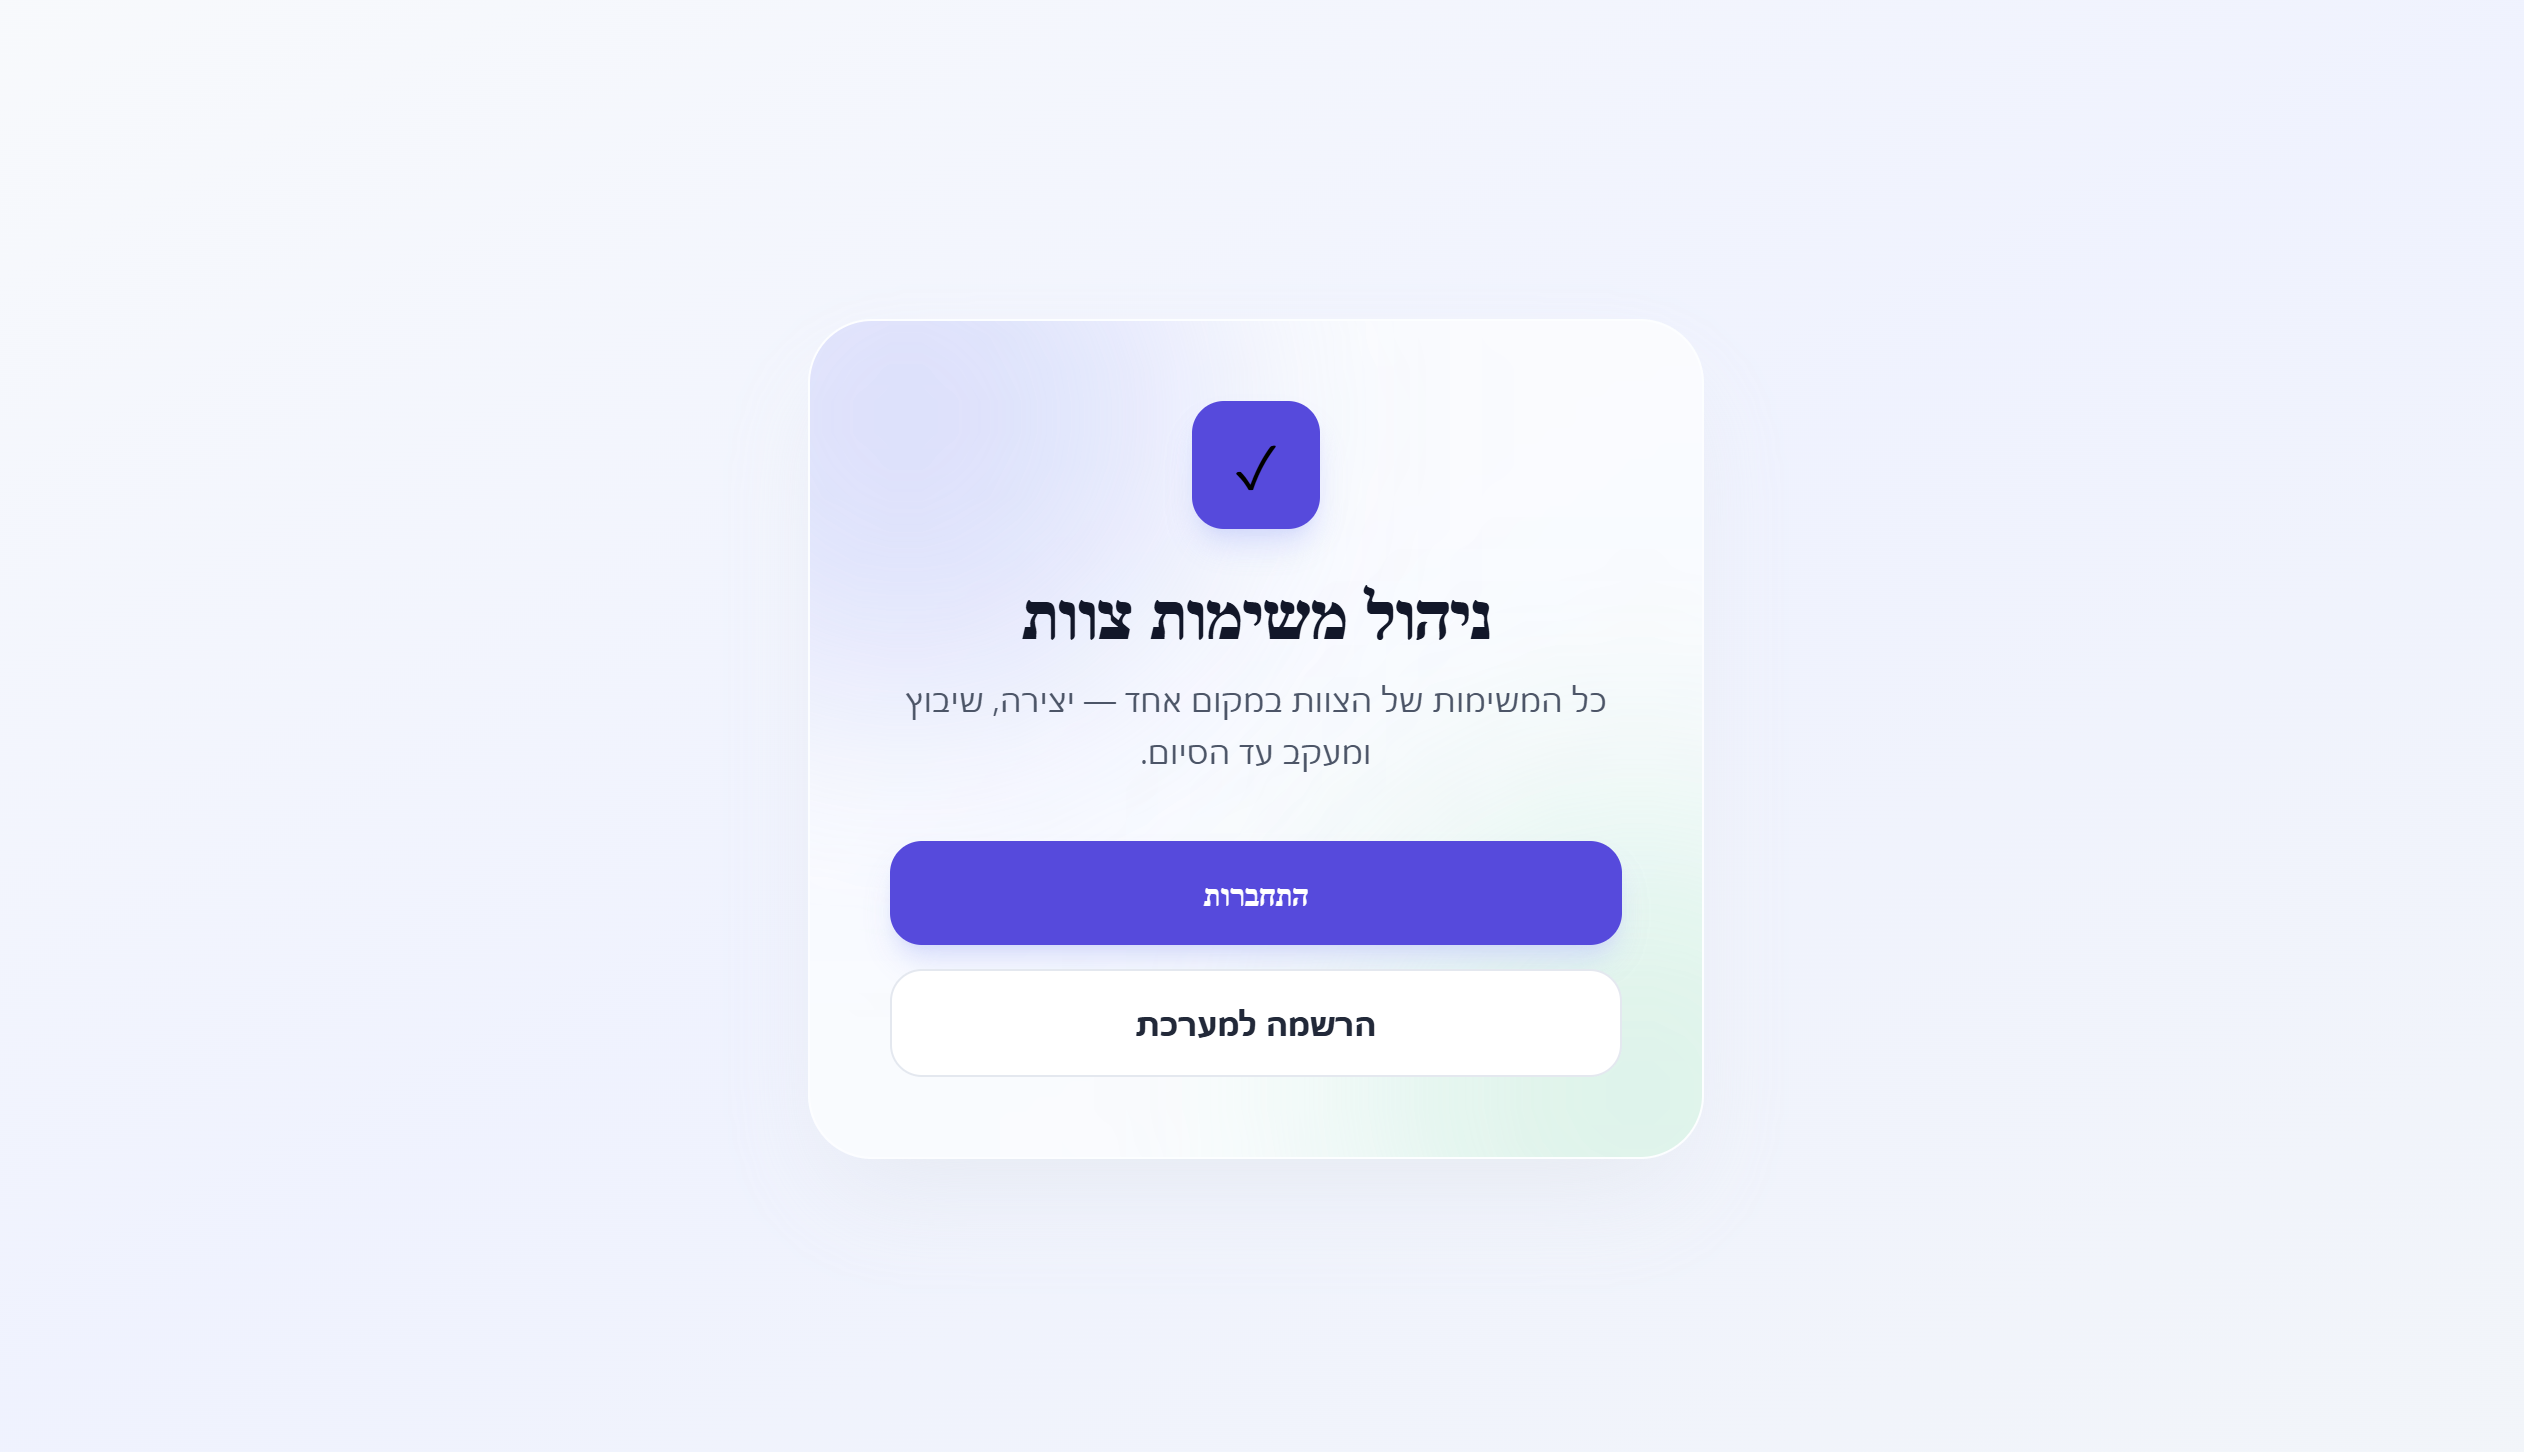
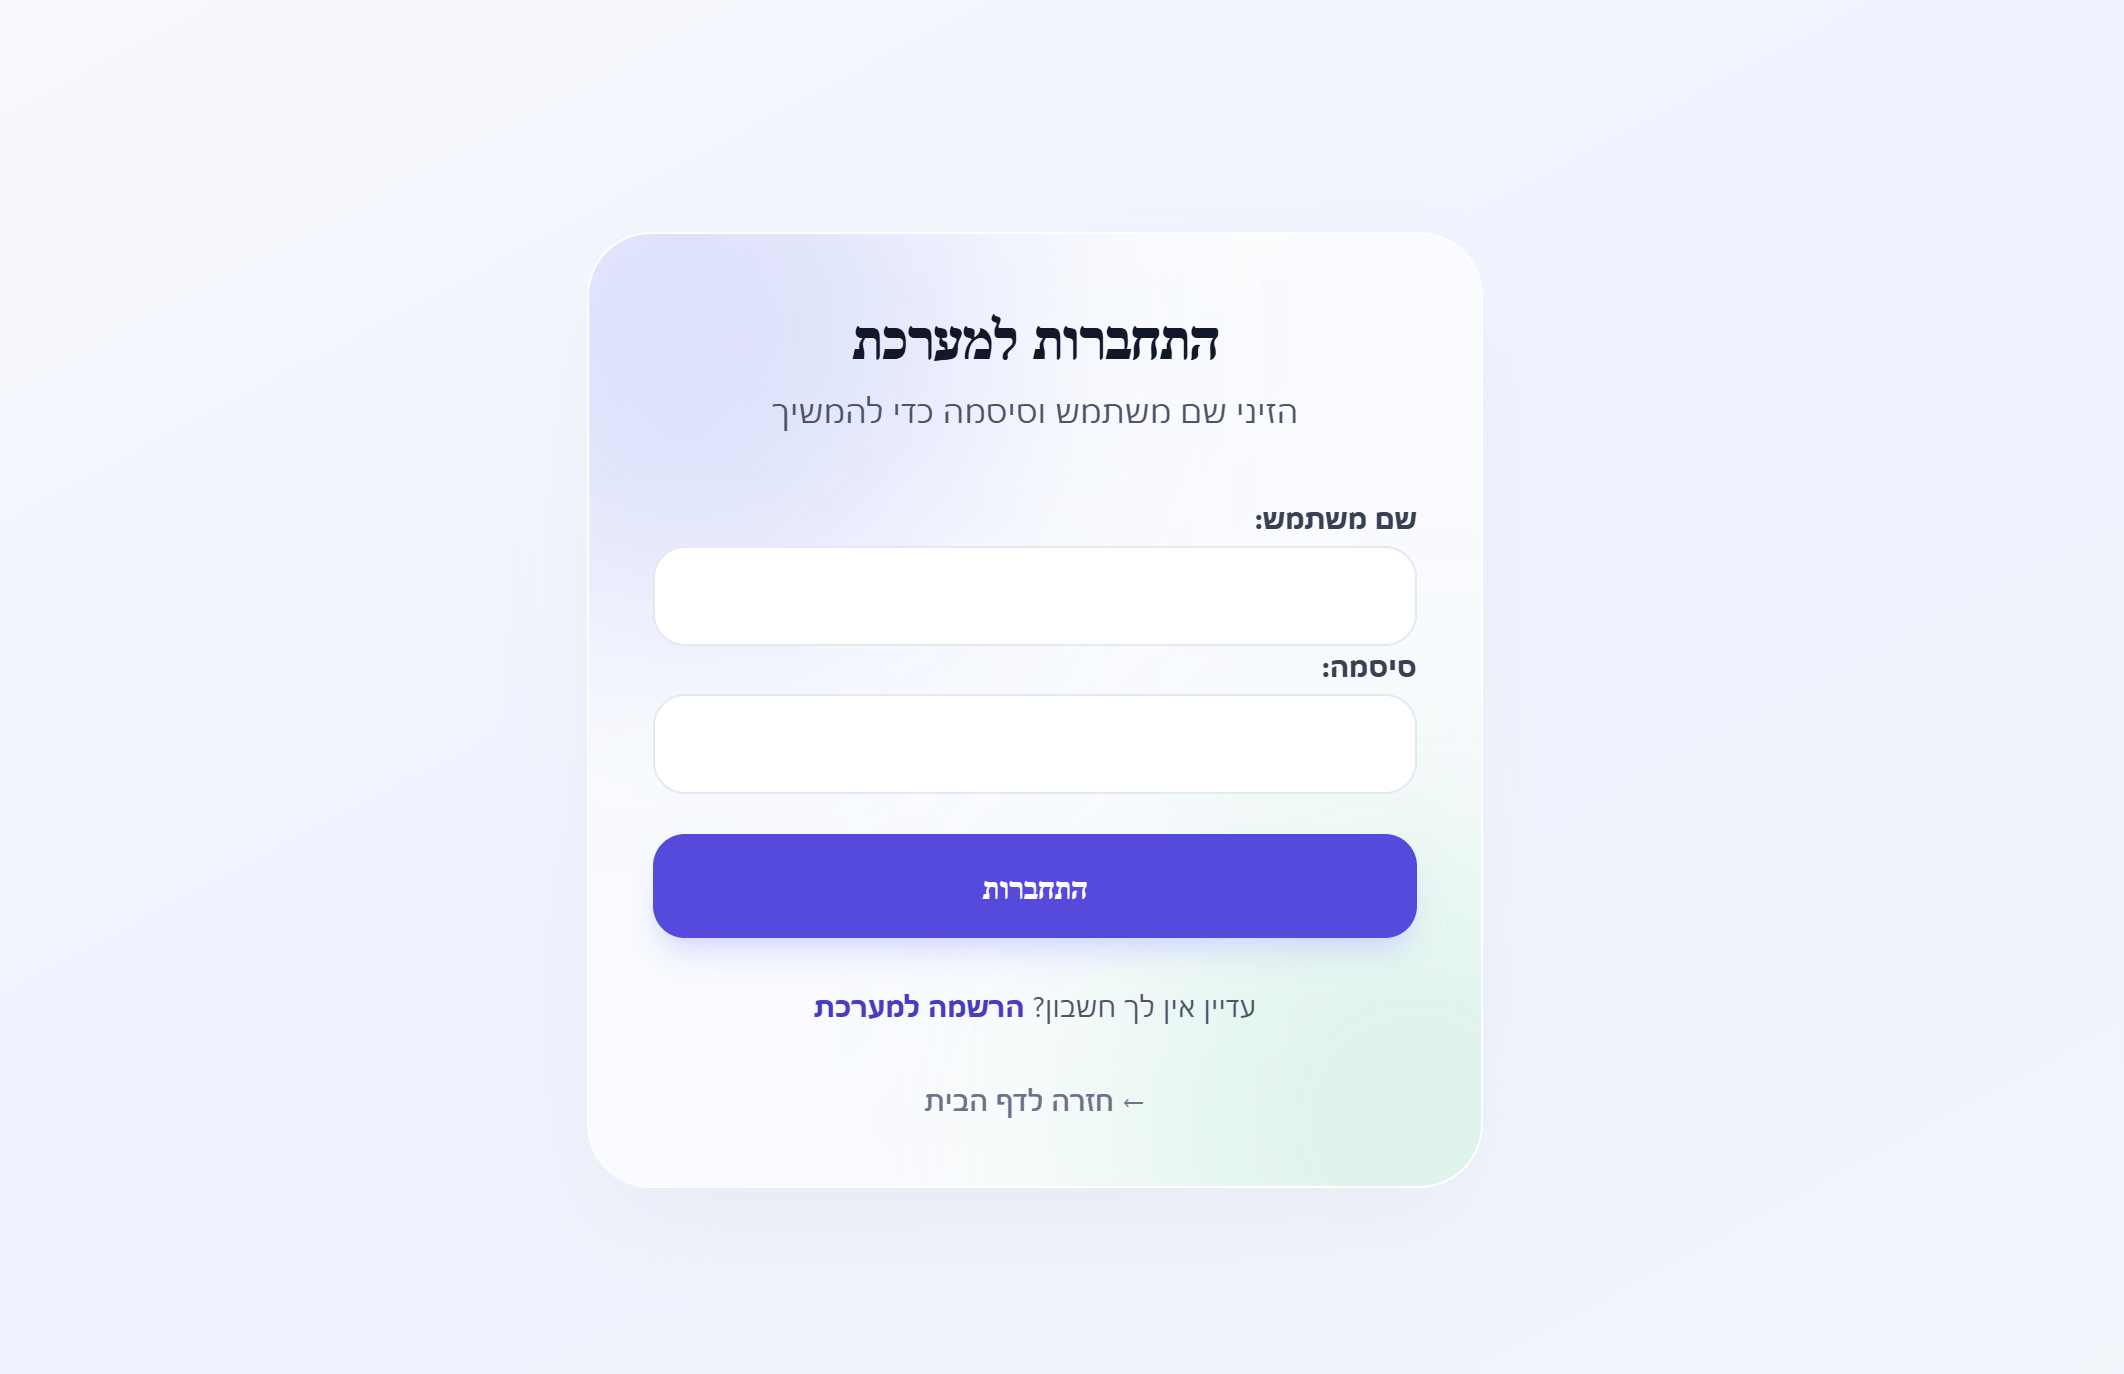
Update README and screenshots

diff --git a/myapp/templates/accounts/register.html b/myapp/templates/accounts/register.html
@@ -7,50 +7,64 @@
     <title>הרשמה</title>
 </head>
 
-<body class="min-h-screen bg-gradient-to-br from-slate-50 via-indigo-50 to-slate-100 flex items-center justify-center px-4">
+<body class="min-h-screen bg-gradient-to-br from-slate-50 via-indigo-50 to-slate-100 flex items-center justify-center px-4 py-8">
 
-<div class="w-full max-w-md">
+<div class="w-full max-w-md md:max-w-2xl">
 
-    <div class="relative overflow-hidden rounded-[2rem] border border-white/60 bg-white/70 backdrop-blur-xl shadow-2xl shadow-slate-200/70 p-8">
+    <div class="relative overflow-hidden rounded-[2rem] border border-white/60 bg-white/70 backdrop-blur-xl shadow-2xl shadow-slate-200/70 p-6 md:p-8">
 
         <!-- background glow -->
         <div class="pointer-events-none absolute -top-24 -left-24 h-72 w-72 rounded-full bg-indigo-300/40 blur-3xl"></div>
         <div class="pointer-events-none absolute -bottom-28 -right-28 h-72 w-72 rounded-full bg-emerald-300/30 blur-3xl"></div>
 
         <div class="relative">
-            <h1 class="text-3xl font-black tracking-tight text-slate-900 text-center">
+            <h1 class="text-2xl md:text-3xl font-black tracking-tight text-slate-900 text-center">
                 הרשמה למערכת
             </h1>
             <p class="mt-2 text-center text-slate-600">
                 צרי חשבון כדי להתחיל לנהל משימות
             </p>
 
-            <form method="post" class="mt-8 space-y-5">
+            <form method="post" class="mt-6 space-y-5">
                 {% csrf_token %}
 
                 <!-- Django form fields -->
-                <div class="[&>p]:space-y-1
+                <div class="grid gap-x-5 gap-y-4 md:grid-cols-2
+                            md:[&>.errorlist]:col-span-2
+                            [&>p]:m-0
                             [&_label]:block
+                            [&_label]:mb-1
                             [&_label]:text-sm
                             [&_label]:font-bold
                             [&_label]:text-slate-700
-                            [&_helptext]:block
-                            [&_helptext]:text-xs
-                            [&_helptext]:text-slate-500
-                            [&_helptext]:mt-1
+                            [&_.helptext]:block
+                            [&_.helptext]:text-xs
+                            [&_.helptext]:text-slate-500
+                            [&_.helptext]:mt-1
                             [&_ul.errorlist]:list-none
                             [&_ul.errorlist]:p-0
                             [&_ul.errorlist]:m-0
                             [&_ul.errorlist_li]:text-sm
                             [&_ul.errorlist_li]:font-bold
                             [&_ul.errorlist_li]:text-rose-600
+                            [&_select]:w-full
+                            [&_select]:rounded-2xl
+                            [&_select]:border
+                            [&_select]:border-slate-200
+                            [&_select]:bg-white
+                            [&_select]:px-4
+                            [&_select]:py-2.5
+                            [&_select]:text-slate-900
+                            [&_select]:outline-none
+                            [&_select]:focus:ring-2
+                            [&_select]:focus:ring-indigo-200
                             [&_input]:w-full
                             [&_input]:rounded-2xl
                             [&_input]:border
                             [&_input]:border-slate-200
                             [&_input]:bg-white
                             [&_input]:px-4
-                            [&_input]:py-3
+                            [&_input]:py-2.5
                             [&_input]:text-slate-900
                             [&_input]:outline-none
                             [&_input]:focus:ring-2
@@ -60,19 +74,19 @@
                 </div>
 
                 <button type="submit"
-                        class="w-full rounded-2xl bg-indigo-600 hover:bg-indigo-700 text-white font-black py-3.5 shadow-lg shadow-indigo-200/70 transition active:scale-[0.99]">
+                        class="w-full rounded-2xl bg-indigo-600 hover:bg-indigo-700 text-white font-black py-3 shadow-lg shadow-indigo-200/70 transition active:scale-[0.99]">
                     הרשמה
                 </button>
             </form>
 
-            <div class="mt-6 text-center text-sm text-slate-600">
+            <div class="mt-5 text-center text-sm text-slate-600">
                 כבר יש לך חשבון?
                 <a href="{% url 'login' %}" class="font-bold text-indigo-700 hover:underline">
                     חזרה להתחברות
                 </a>
             </div>
 
-            <div class="mt-6 text-center">
+            <div class="mt-3 text-center">
                 <a href="{% url 'home' %}" class="text-sm font-semibold text-slate-500 hover:text-indigo-700">
                     ← חזרה לדף הבית
                 </a>

diff --git a/myapp/templates/accounts/login.html b/myapp/templates/accounts/login.html
@@ -35,6 +35,17 @@
                             [&_label]:text-sm
                             [&_label]:font-bold
                             [&_label]:text-slate-700
+                            [&_select]:w-full
+                            [&_select]:rounded-2xl
+                            [&_select]:border
+                            [&_select]:border-slate-200
+                            [&_select]:bg-white
+                            [&_select]:px-4
+                            [&_select]:py-3
+                            [&_select]:text-slate-900
+                            [&_select]:outline-none
+                            [&_select]:focus:ring-2
+                            [&_select]:focus:ring-indigo-200
                             [&_input]:w-full
                             [&_input]:rounded-2xl
                             [&_input]:border

diff --git a/myapp/templates/admin/taskform.html b/myapp/templates/admin/taskform.html
@@ -34,10 +34,10 @@
                             [&_label]:text-sm
                             [&_label]:font-bold
                             [&_label]:text-slate-700
-                            [&_helptext]:block
-                            [&_helptext]:text-xs
-                            [&_helptext]:text-slate-500
-                            [&_helptext]:mt-1
+                            [&_.helptext]:block
+                            [&_.helptext]:text-xs
+                            [&_.helptext]:text-slate-500
+                            [&_.helptext]:mt-1
                             [&_ul.errorlist]:list-none
                             [&_ul.errorlist]:p-0
                             [&_ul.errorlist]:m-0

diff --git a/myapp/forms.py b/myapp/forms.py
@@ -23,10 +23,20 @@ class UserCreationForm(BaseUserCreationForm):
             "email": "אימייל",
             "team": "צוות",
         }
+        error_messages = {
+            "tz": {"unique": "כבר קיים משתמש עם תעודת הזהות הזו."},
+        }
 
     def __init__(self, *args, **kwargs):
         super().__init__(*args, **kwargs)
         self.fields["team"].required = True
+        self.fields["team"].empty_label = "בחרי צוות"
+        self.fields["password1"].label = "סיסמה"
+        self.fields["password2"].label = "אימות סיסמה"
+        # הסברים קצרים במקום הטקסטים הארוכים של Django
+        self.fields["username"].help_text = "אותיות, ספרות והסימנים . _ - בלבד, בלי רווחים"
+        self.fields["password1"].help_text = "לפחות 8 תווים, ולא רק ספרות"
+        self.fields["password2"].help_text = ""
 
     def save(self, commit=True):
         user = super().save(commit=False)

diff --git a/project/settings.py b/project/settings.py
@@ -106,9 +106,9 @@ AUTH_PASSWORD_VALIDATORS = [
 # Internationalization
 # https://docs.djangoproject.com/en/5.2/topics/i18n/
 
-LANGUAGE_CODE = "en-us"
+LANGUAGE_CODE = "he"
 
-TIME_ZONE = "UTC"
+TIME_ZONE = "Asia/Jerusalem"
 
 USE_I18N = True
 

diff --git a/README.md b/README.md
@@ -19,16 +19,49 @@
 
 ## צילומי מסך
 
-| רשימת המשימות (מנהלת) | רשימת המשימות (עובד) |
-|---|---|
-| ![](screenshots/tasks-admin.png) | ![](screenshots/tasks-worker.png) |
+<p align="center">
+  <img src="screenshots/tasks-admin.png" width="90%" alt="רשימת המשימות — תצוגת מנהלת">
+  <br>
+  <sub><b>רשימת המשימות — תצוגת מנהלת:</b> משימות בשלושה סטטוסים, תאריכי סיום וסימון משימות באיחור</sub>
+</p>
 
-| דף הבית | משימה חדשה | התחברות |
-|---|---|---|
-| ![](screenshots/home.png) | ![](screenshots/task-form.png) | ![](screenshots/login.png) |
+<table>
+  <tr>
+    <td align="center" width="50%">
+      <img src="screenshots/tasks-worker.png" alt="תצוגת עובד"><br>
+      <sub><b>תצוגת עובד</b> — שיבוץ עצמי וסימון משימה כהושלמה</sub>
+    </td>
+    <td align="center" width="50%">
+      <img src="screenshots/task-form.png" alt="משימה חדשה"><br>
+      <sub><b>משימה חדשה</b> — המנהלת יוצרת ומשייכת משימות</sub>
+    </td>
+  </tr>
+</table>
 
-### תצוגת מובייל
-<img src="screenshots/mobile.png" width="300">
+<table>
+  <tr>
+    <td align="center" width="33%">
+      <img src="screenshots/home.png" alt="דף הבית"><br>
+      <sub><b>דף הבית</b></sub>
+    </td>
+    <td align="center" width="33%">
+      <img src="screenshots/login.png" alt="התחברות"><br>
+      <sub><b>התחברות</b></sub>
+    </td>
+    <td align="center" width="33%">
+      <img src="screenshots/register.png" alt="הרשמה"><br>
+      <sub><b>הרשמה</b></sub>
+    </td>
+  </tr>
+</table>
+
+### 📱 מותאם למובייל
+
+<p align="center">
+  <img src="screenshots/mobile.png" width="260" alt="רשימת המשימות במובייל">
+  &nbsp;&nbsp;&nbsp;&nbsp;
+  <img src="screenshots/mobile-register.png" width="260" alt="הרשמה במובייל">
+</p>
 
 ## מבנה הפרויקט
 
